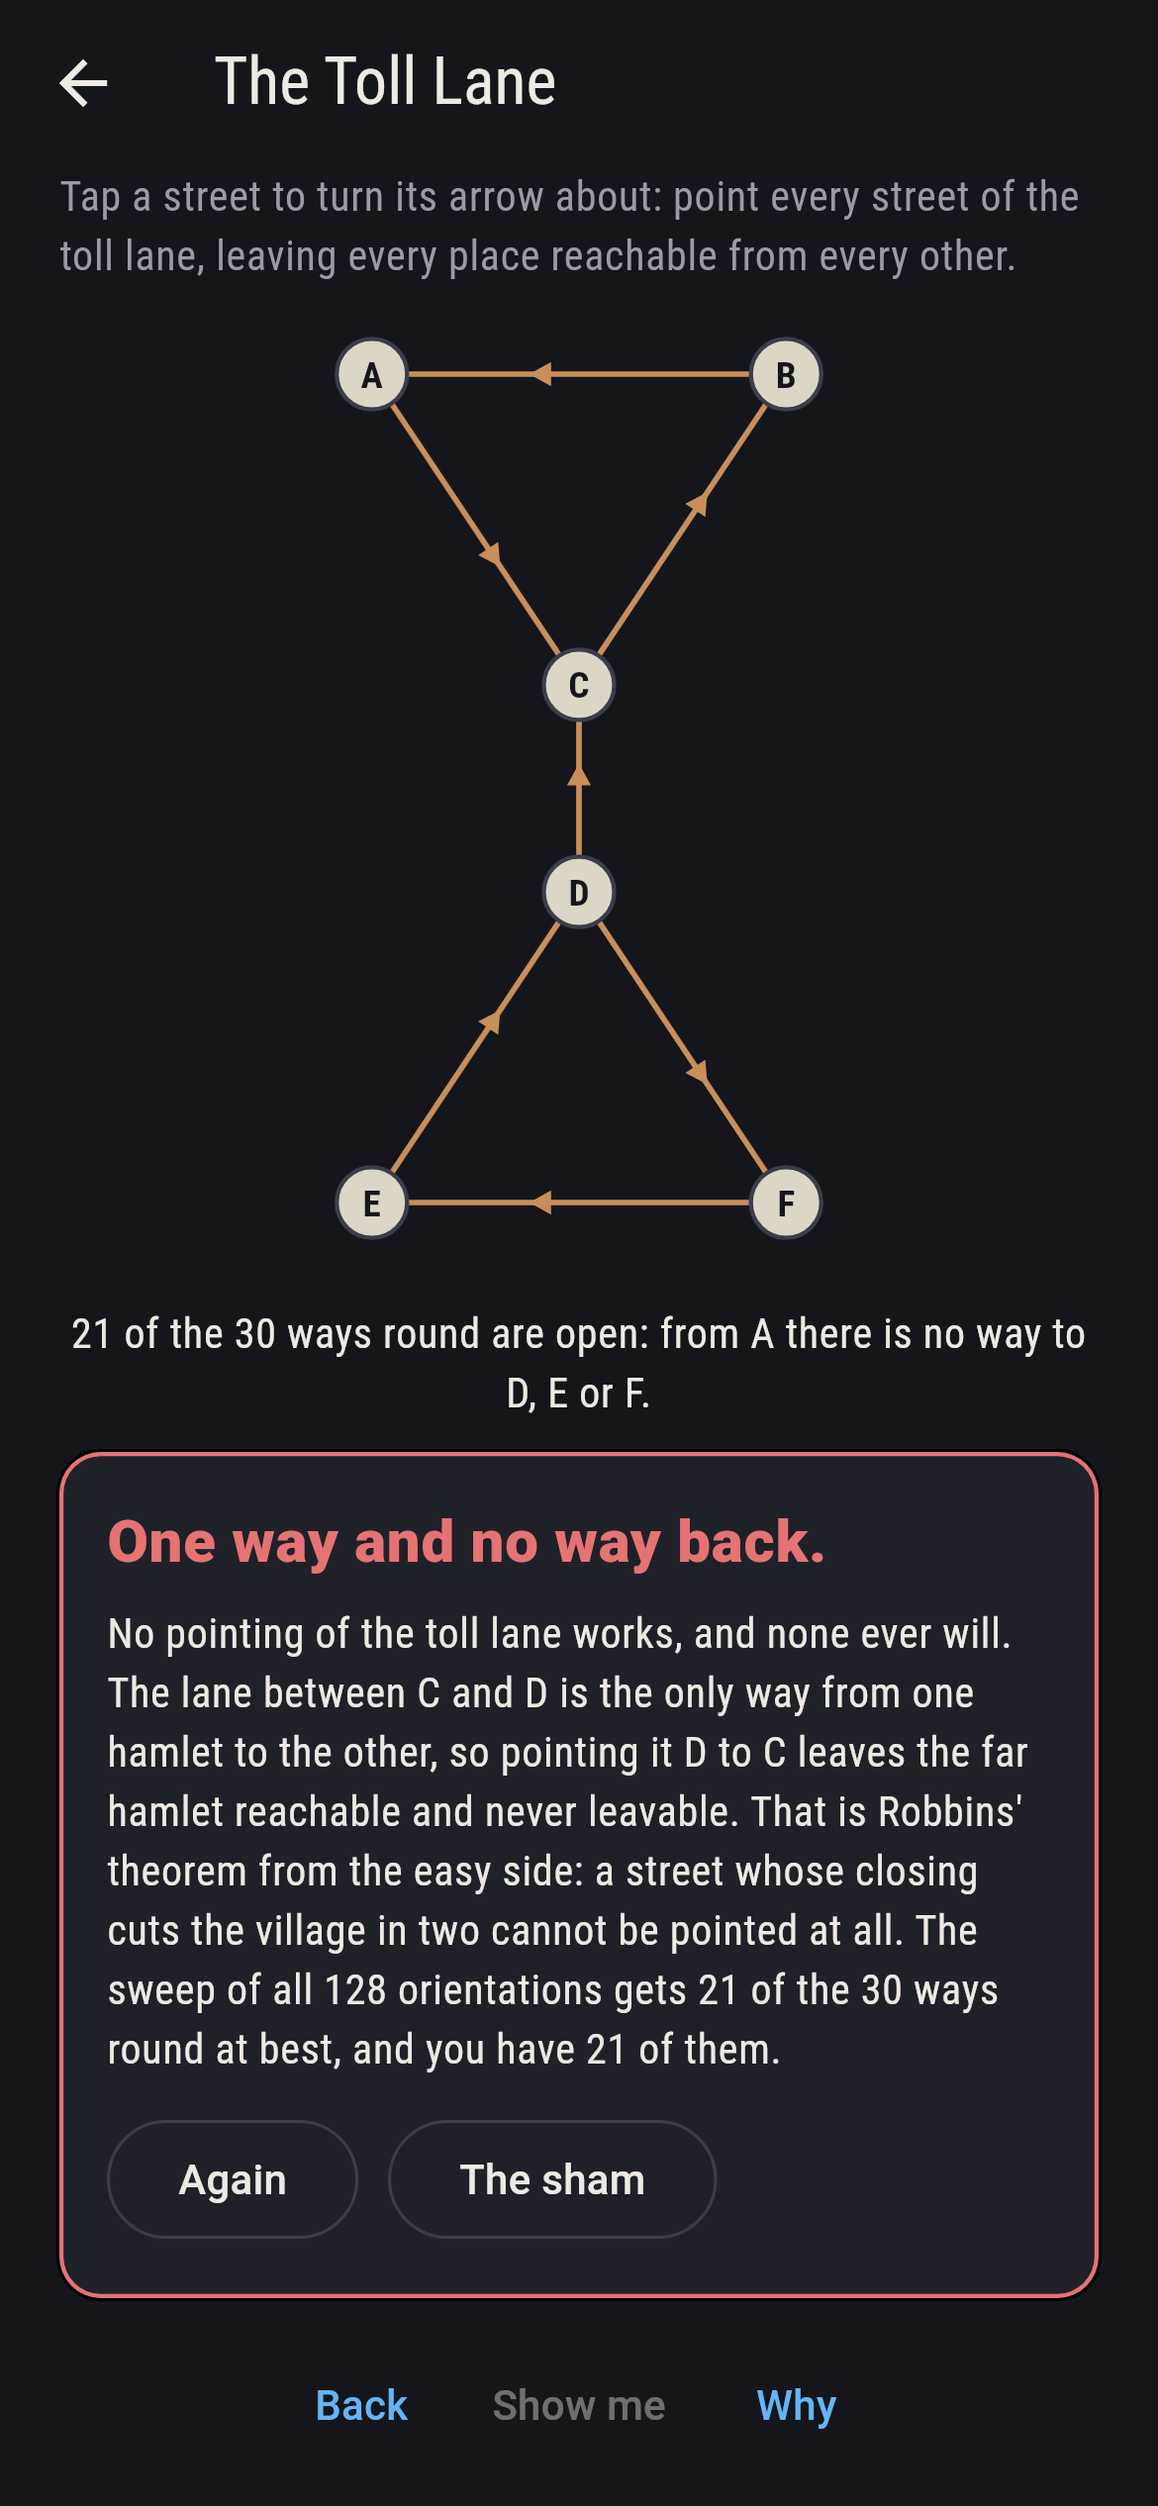
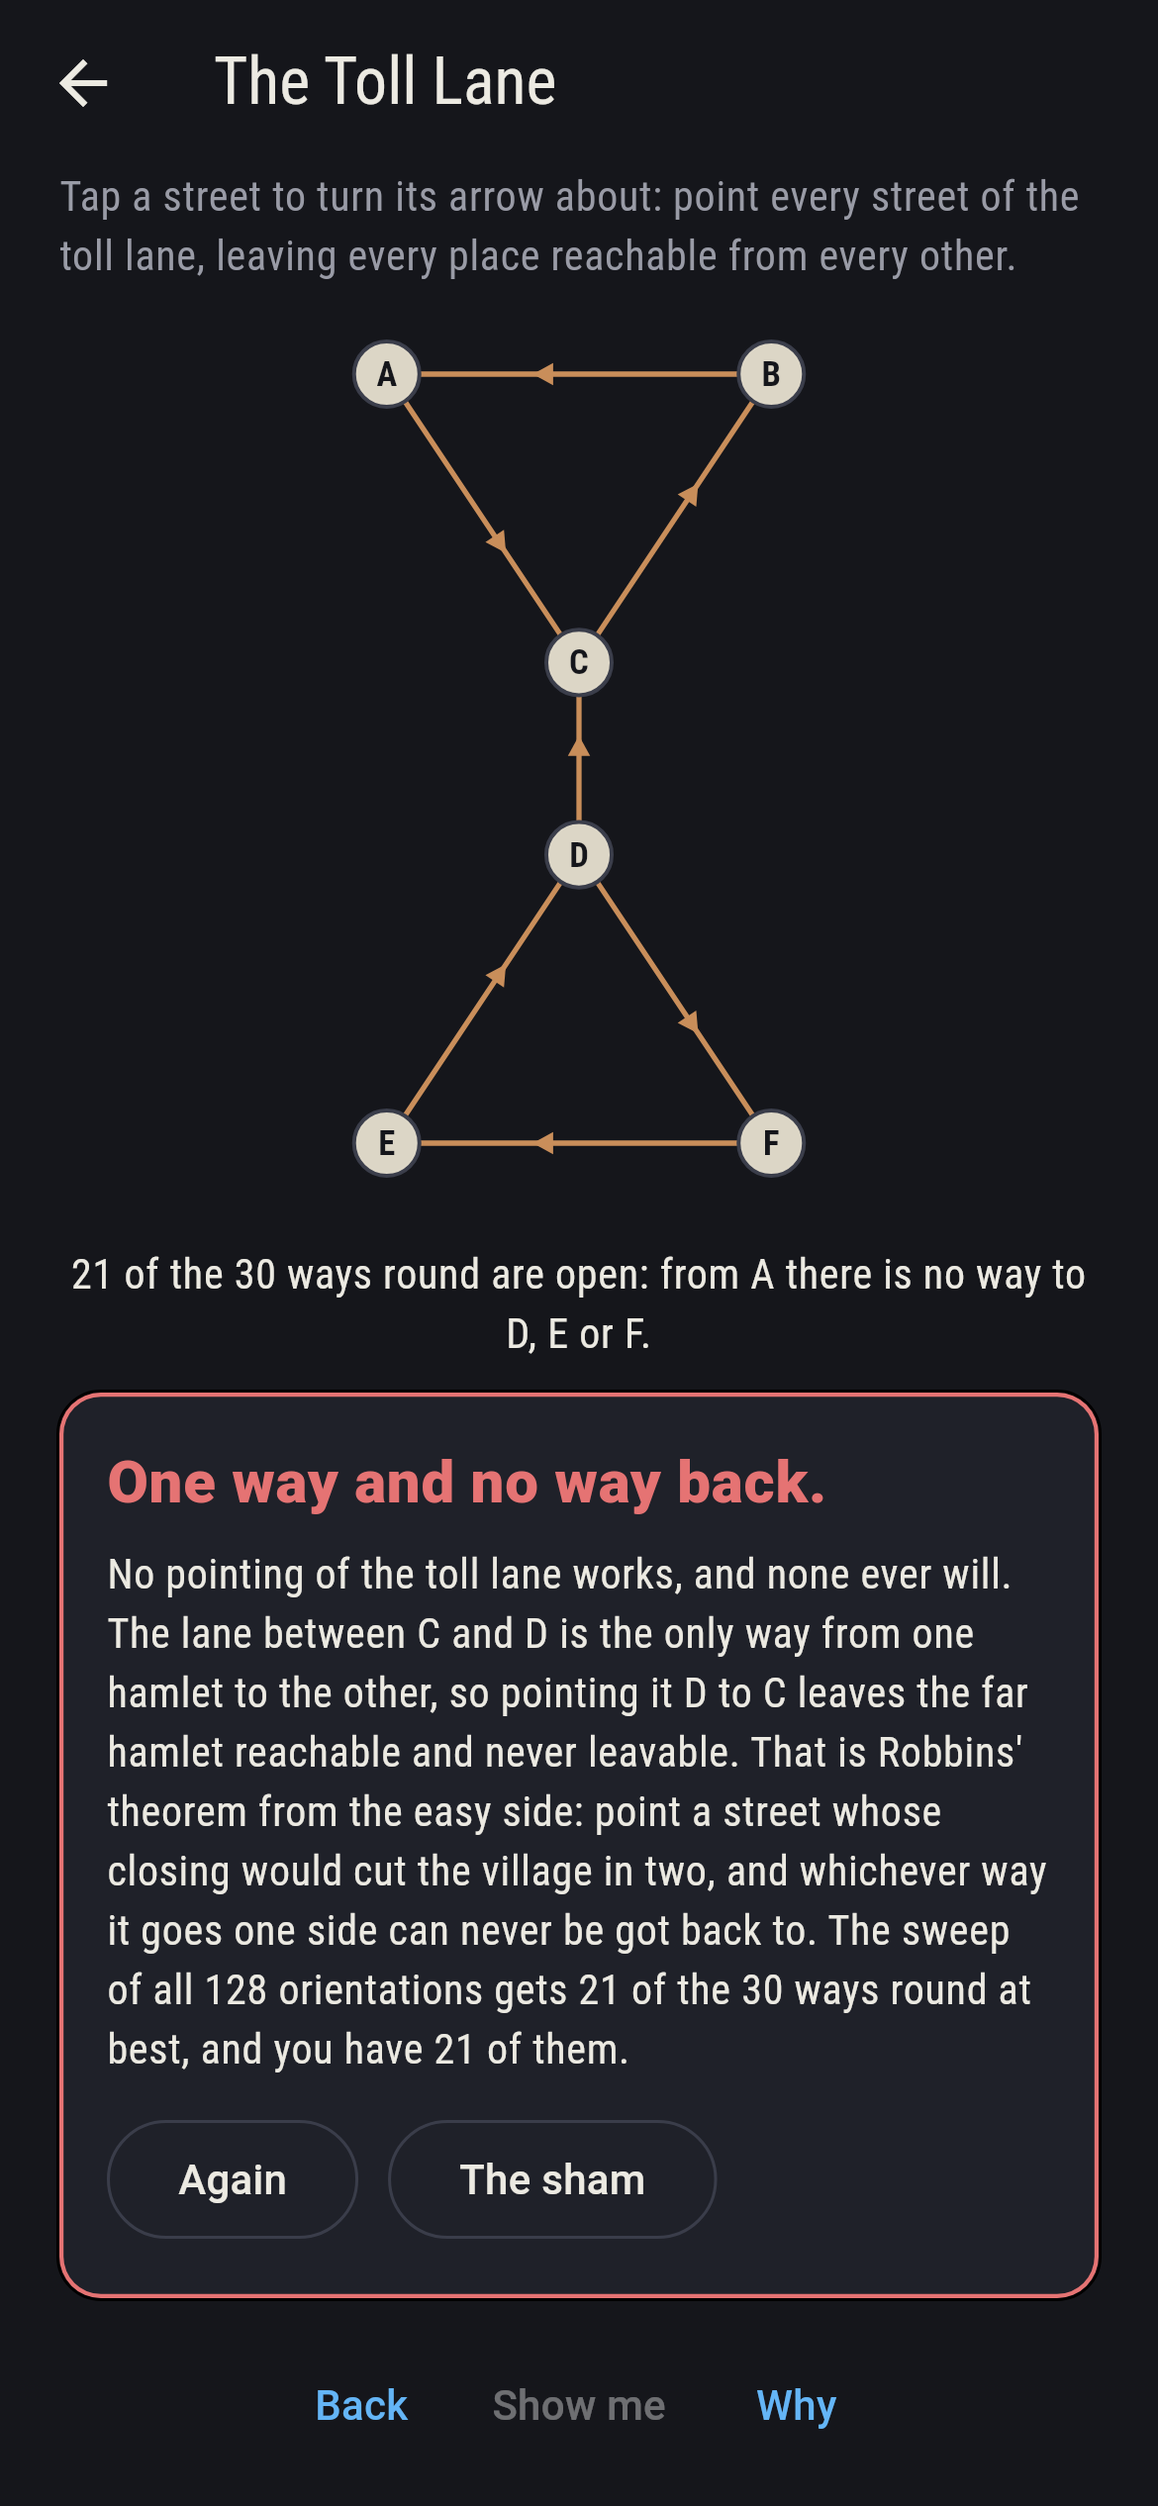
Arrowmere: what the checkers found in the prose

diff --git a/Arrowmere/lib/ways/levels.dart b/Arrowmere/lib/ways/levels.dart
@@ -1,8 +1,9 @@
 import 'level.dart';
 import 'rules.dart';
 
-/// The five asks, first to last. Every count is the sweep's, and the
-/// checker refuses the bake if any drifts.
+/// The five asks, first to last. Each ways count is the sweep's, and the
+/// checker refuses the bake if one drifts. The numbers inside the notes
+/// are the same sweep's, written out by hand.
 class Levels {
   static const all = <Level>[
     Level(
@@ -28,9 +29,12 @@ class Levels {
       village: Rules.house,
       ways: 6,
       note: 'A square with a roof on it: two rounds sharing a street. Six '
-          'of the 64 orientations work. The shared street may point either '
-          'way, and once it does the two rounds have to run with it, which '
-          'is why six and not eight.',
+          'of the 64 orientations work. Three ways run between C and D, the '
+          'street they share, the roof through E, and the far side of the '
+          'square through B and A, and each has to run one way from end to '
+          'end. That is eight, and the two that send all three the same way '
+          'leave a place that can be reached but never left, which is why '
+          'six and not eight.',
     ),
     Level(
       name: 'The Two Rings',
@@ -45,13 +49,14 @@ class Levels {
       name: 'The Toll Lane',
       village: Rules.toll,
       ways: 0,
-      note: 'Hopeless, and the tile says so. Two hamlets of three places '
-          'each, joined by one lane. Point that lane whichever way you like '
-          'and the hamlet at its far end can be reached but never left, so '
-          'nine of the thirty ordered pairs go one way only and 21 is the '
-          'most any orientation gets. Robbins said so in 1939: a village can '
-          'be made one-way throughout exactly when no street is a bridge, '
-          'and this lane is one.',
+      note: 'Hopeless, and the card at the end of the ask says so. Two '
+          'hamlets of three places each, joined by one lane. Point that lane '
+          'whichever way you like and the hamlet at its far end can be '
+          'reached but never left, so the nine pairs of places across the '
+          'lane can be got between one way only, and 21 of the thirty '
+          'ordered pairs is the most any orientation gets. Robbins said so '
+          'in 1939: a joined village can be made one-way throughout exactly '
+          'when no street is a bridge, and this lane is one.',
     ),
   ];
 

diff --git a/Arrowmere/lib/ways/rules.dart b/Arrowmere/lib/ways/rules.dart
@@ -240,11 +240,13 @@ class Rules {
         return null;
       });
 
-  /// Tutte's polynomial of the village's streets, worked out by
-  /// deleting and contracting one street at a time. At (0, 2) it counts
-  /// the orientations that leave every street on a round trip, which
-  /// for a joined village are exactly the one-way-throughout ones: the
-  /// second voice, which never tries an orientation at all.
+  /// Tutte's polynomial of the village's streets at ([x], [y]), worked
+  /// out by deleting and contracting one street at a time with the
+  /// values already in, so the polynomial itself is never formed. At
+  /// (0, 2) it counts the orientations that leave every street on a
+  /// round trip, which for a joined village are exactly the
+  /// one-way-throughout ones: the second voice, which never tries an
+  /// orientation at all.
   static int tutte(List<Street> streets, int x, int y) {
     final loops = streets.where((s) => s.$1 == s.$2).length;
     if (loops > 0) {
@@ -289,7 +291,8 @@ class Rules {
     return {for (final p in places) find(p)}.length;
   }
 
-  /// The count of one-way-throughout orientations by the polynomial.
+  /// The count of one-way-throughout orientations by the polynomial,
+  /// good for a joined village, which every village here is.
   static int strongByTutte(Village village) => tutte(village.streets, 0, 2);
 
   static final Map<String, List<List<bool>>> _strongs = {};

diff --git a/Arrowmere/lib/ways/play.dart b/Arrowmere/lib/ways/play.dart
@@ -147,12 +147,13 @@ String whyWords(Play play) {
       'bridge is out. The other way is the work of the theorem: build the '
       'village up from one round trip at a time and every new stretch can be '
       'pointed the way it was walked.\n\n'
-      'The sham counts the orientations that work twice over. It tries every '
-      'one of them, ${play.village.orientations} for ${play.village.name}, '
-      'and it works the same count out of the village\'s Tutte polynomial at '
-      '(0, 2), which never points a street at all. The two agree on all five '
+      'The orientations that work are counted twice over. The sham tries '
+      'every one of them, ${play.village.orientations} for '
+      '${play.village.name}. The checker that runs before the build works '
+      'the same count out of the village\'s Tutte polynomial at (0, 2), '
+      'which never points a street at all. The two agree on all five '
       'villages, and on the toll lane both give nought.\n\n'
       'This is ask $number, ${level.name}. ${level.note}\n\n'
-      'The tile\'s counts are the sweep\'s: every orientation of every '
-      'street, tried in full.';
+      'The counts in this note are the sweep\'s: every orientation of every '
+      'street, tried in full before the sham was built.';
 }

diff --git a/Arrowmere/tool/check_ways.dart b/Arrowmere/tool/check_ways.dart
@@ -121,7 +121,7 @@ void main() {
         '${level.name} in ${play.moves} against ${level.fewest}');
   }
 
-  // The hopeless ask, worn down either way it is played.
+  // The hopeless ask, worn down by three best-it-gets orientations.
   final toll = Levels.all.firstWhere((l) => !l.winnable);
   var stuck = Play.of(toll);
   for (var k = 0; k < Play.gaveUpAt && !stuck.gaveUp; k++) {
@@ -176,8 +176,8 @@ void main() {
         ? '${commas(level.ways)} of the '
             '${commas(level.village.orientations)} orientations land it, the '
             'fewest ${level.fewest} turns from the opening'
-        : 'none of the ${commas(level.village.orientations)}, and the lane '
-            'says so on a finger';
+        : 'none of the ${commas(level.village.orientations)}, its lane being '
+            'a bridge';
     stdout.writeln(' ${i + 1} ${level.name.padRight(width)} ${level.task}: $tail');
   }
 }

diff --git a/Arrowmere/lib/ui/result_card.dart b/Arrowmere/lib/ui/result_card.dart
@@ -46,8 +46,9 @@ class ResultCard extends StatelessWidget {
           'one hamlet to the other, so pointing it '
           '${Rules.tellPlace(from)} to ${Rules.tellPlace(to)} leaves the far '
           'hamlet reachable and never leavable. That is Robbins\' theorem '
-          'from the easy side: a street whose closing cuts the village in two '
-          'cannot be pointed at all. The sweep of all '
+          'from the easy side: point a street whose closing would cut the '
+          'village in two, and whichever way it goes one side can never be '
+          'got back to. The sweep of all '
           '${village.orientations} orientations gets ${level.bestPairs} of '
           'the ${play.wanted} ways round at best, and you have '
           '${play.pairs} of them.';

diff --git a/Arrowmere/lib/ui/title_screen.dart b/Arrowmere/lib/ui/title_screen.dart
@@ -43,8 +43,8 @@ class _TitleScreenState extends State<TitleScreen> {
                 padding: EdgeInsets.fromLTRB(24, 4, 24, 8),
                 child: Text(
                   'Point every street of a village one way and keep every '
-                  'place reachable from every other. Robbins says it can be '
-                  'done exactly when no street is a bridge.',
+                  'place reachable from every other. Robbins says a joined '
+                  'village takes it exactly when no street is a bridge.',
                   textAlign: TextAlign.center,
                   style:
                       TextStyle(color: Palette.inkDim, fontSize: 14),

diff --git a/Arrowmere/test/showcase_test.dart b/Arrowmere/test/showcase_test.dart
@@ -13,9 +13,10 @@ import 'support/wayland.dart';
 /// the game for somebody to look at: the real widget tree at real phone
 /// dimensions, drawn by the engine the app uses.
 ///
-/// Every arrow turned in them was turned by a tap on that street, so no
-/// village in the pictures is pointed a way the game could not point
-/// it.
+/// Every arrow on a board in them was turned by a tap on that street,
+/// and the mark on the title shot is the house drawn as the village
+/// lists it, so no village pictured is pointed a way the game could not
+/// point it.
 ///
 /// Run it with: make shots
 void main() {

diff --git a/Arrowmere/test/mark_test.dart b/Arrowmere/test/mark_test.dart
@@ -15,7 +15,9 @@ import 'support/fonts.dart';
 
 /// Draws the logo and the app icons.
 ///
-/// There is no image in this repository that was not produced here.
+/// Every image the app ships is drawn here, bar the shots in docs/, which
+/// come from test/showcase_test.dart, and the three 1x1 launch images
+/// Flutter's iOS template left in ios/Runner/Assets.xcassets.
 void main() {
   const out = 'assets';
   const frame = Key('mark');

diff --git a/Arrowmere/lib/ways/level.dart b/Arrowmere/lib/ways/level.dart
@@ -18,7 +18,7 @@ class Level {
   /// How many orientations land it, from the sweep.
   final int ways;
 
-  /// Something worth knowing, computed.
+  /// Something worth knowing, written out by hand.
   final String note;
 
   bool get winnable => ways > 0;

diff --git a/Arrowmere/README.md b/Arrowmere/README.md
@@ -7,13 +7,17 @@ one-way. Tap a street and its arrow turns about; the ask is that every
 place can still be reached from every other once all the arrows are
 set. Some villages take it and some cannot, and Robbins' theorem, from
 Herbert Robbins in 1939, says exactly which: a joined village can be
-made one-way throughout when no street is a bridge, a street whose
+made one-way throughout exactly when no street is a bridge, a street
+whose
 closing would cut the village in two. One side of that is plain to
 see. Point a bridge and the side it leaves can never be got back to.
-The other side is the work of the theorem. The game holds five
-villages, from a square of four places to a cube of eight, and it
-points every street of each of them every way it can be pointed, 8,400
-orientations, counting the ones that work twice over.
+The other side is the work of the theorem. Robbins wrote it up in A
+Theorem on Graphs, with an Application to a Problem of Traffic
+Control, American Mathematical Monthly 46, 1939, pages 281 to 283. The
+game holds five villages, from a square of four places to a green of
+nine, and every street of each of them is pointed every way it can be
+pointed, 8,400 orientations, with the ones that work counted twice
+over before the game is built.
 
 ## The asks
 
@@ -28,36 +32,48 @@ them, and 78 of its 4,096 orientations work. The square is the plainest
 case: only two of its sixteen work, the two that send you round and
 round, and every other leaves a place you can enter and never leave or
 leave and never enter. The house is a square with a roof, two rounds
-sharing a street, and six of its 64 work: the shared street may point
-either way, and once it does the two rounds must run with it. The two
+sharing a street, and six of its 64 work: three ways run between C and
+D, the street they share, the roof through E, and the far side of the
+square through B and A, each running one way from end to end, and of
+those eight the two that send all three the same way leave a place
+that can be reached but never left. The two
 rings are the graph of a cube, an outer ring of four places and an
 inner one with four streets between them, and 426 of its 4,096 work,
-more than any other village here. The Toll Lane is washed red on the
-board rather than gold: two hamlets of three places each, joined by
-one lane. Point that lane whichever way you like and the far hamlet
-can be reached and never left, so nine of the thirty ordered pairs go
-one way only and 21 is the most any orientation gets. The sham admits
-it once three orientations have got that far, or after fourteen turns.
+more than any other village here. The Toll Lane never turns gold on the
+board, since the gold comes only when every place can be reached from
+every other: two hamlets of three places each, joined by one lane.
+Point that lane whichever way you like and the far hamlet can be
+reached and never left, so the nine pairs of places across the lane
+can be got between one way only, and 21 of the thirty ordered pairs is
+the most any orientation gets. The sham admits it once turns have
+landed on three different orientations that get that far, or after
+fourteen turns.
 
 ## Two voices
 
-Every number the game says out loud is one it worked out, and the
-count of orientations that work is worked out two ways:
+Every number the game says out loud was worked out here rather than
+guessed. Most of them the game works out as you play; the count of
+orientations that work is written into `lib/ways/levels.dart` and held
+to the sweep by the tests and by `tool/check_ways.dart`, which works
+it out two ways:
 
 * **The walk** points the streets and tries. For each of the 8,400
   orientations it follows the arrows out of every place in turn and
   counts the ordered pairs it can get between; the orientation works
-  when all of them are open. On every one that works it also checks
-  that each street lies on a round trip, so what one street leaves can
-  be come back to by others.
-* **The polynomial** never points a street. It works the village's
-  Tutte polynomial out by deleting and contracting one street at a
-  time, and reads the count off at (0, 2), which counts the
-  orientations leaving every street on a round trip. The two agree on
+  when all of them are open. On every one that works every street lies
+  on a round trip, since every place can be got to from every other,
+  and the checker spells that out street by street.
+* **The polynomial** never points a street. It deletes and contracts
+  one street at a time, the way the Tutte polynomial is built, with 0
+  and 2 already put in for x and y, so the polynomial itself is never
+  formed and what falls out is its value at (0, 2): the count of
+  orientations that leave every street on a round trip. In a joined
+  village those are exactly the orientations the walk counts, so the
+  two voices count one set of orientations by two roads. They agree on
   all five villages and on rings of every length from three to eight,
-  and on the toll lane both give nought, which is Robbins' theorem in
-  arithmetic: the polynomial at (0, 2) vanishes exactly when a street
-  is a bridge.
+  and on the toll lane both give nought. A bridge puts a factor of x
+  into the polynomial, so a village with one gives nought at (0, 2);
+  that a joined village without one never does is Robbins' theorem.
 
 The bridges are found twice as well, once by closing each street in
 turn and asking whether the village falls apart, and once by the
@@ -80,7 +96,7 @@ every way of pointing every street of all five villages tried, 8,400 orientation
  2 The Square    point every street of the square, leaving every place reachable from every other: 2 of the 16 orientations land it, the fewest 2 turns from the opening
  3 The House     point every street of the house, leaving every place reachable from every other: 6 of the 64 orientations land it, the fewest 2 turns from the opening
  4 The Two Rings point every street of the two rings, leaving every place reachable from every other: 426 of the 4,096 orientations land it, the fewest 4 turns from the opening
- 5 The Toll Lane point every street of the toll lane, leaving every place reachable from every other: none of the 128, and the lane says so on a finger
+ 5 The Toll Lane point every street of the toll lane, leaving every place reachable from every other: none of the 128, its lane being a bridge
 ```
 
 ## Screenshots
@@ -95,8 +111,9 @@ every way of pointing every street of all five villages tried, 8,400 orientation
 
 Screenshots are drawn by `test/showcase_test.dart` at real phone sizes
 with the app's own painter, then copied into `docs/` as they came out;
-every arrow turned in them was turned by a tap on that street, so no
-village pictured is pointed a way the game could not point it. The
+every arrow on a board in them was turned by a tap on that street, and
+the mark on the title shot is the house drawn as the village lists it,
+so no village pictured is pointed a way the game could not point it. The
 logo and every launcher icon come out of `test/mark_test.dart`, drawn
 by the same painter: the mark is the house pointed the way the village
 lists it, one of the six orientations that leave every place reachable
